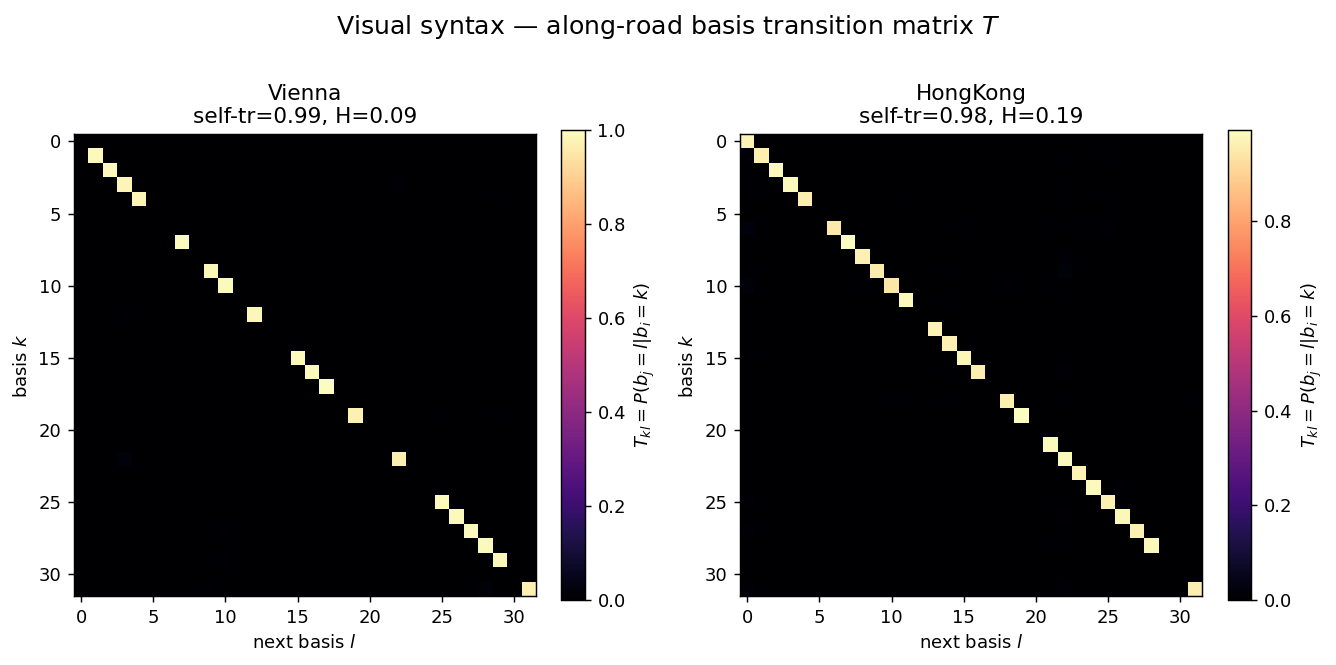
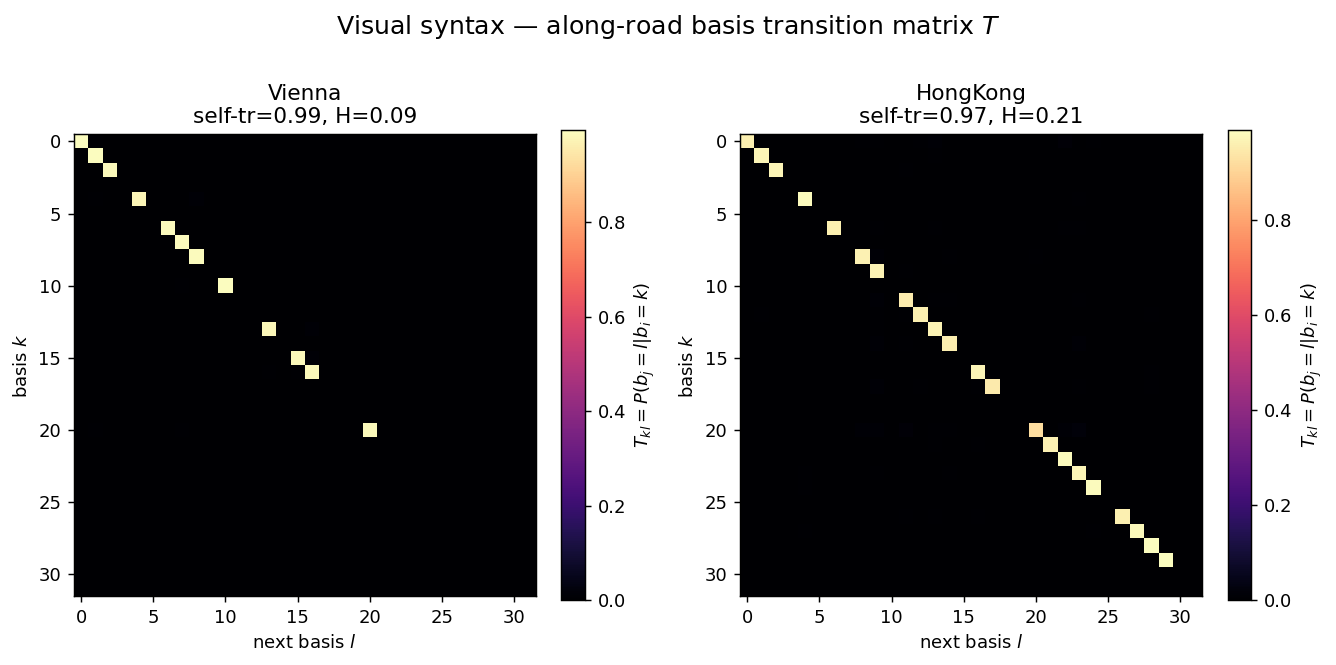
Unify 5.8/5.9 analyses on quality-filtered data (both cities)
Re-ran HongKong N=2000 with --exclude-bad (29/2000 dropped) and regenerated the
grammar analyses + basis roles on Vienna+HK clean data. All conclusions hold:
- H2 spatial organization z=-730/-1277 (road << random, road<euclidean)
- H3 unit coherence gap z=+35/+44
- H4 syntax: HK transition entropy 2.3x Vienna, vocab JSD 0.46
- roles: dominant 12 (V) / 22 (HK), more dead bases after removing the artifact
No imaging-artifact (glare) basis anywhere. REPORT 5.8/5.9 tables/figures updated.

diff --git a/REPORT.md b/REPORT.md
@@ -248,14 +248,12 @@ $$
 
 ![basis roles](outputs/figures/basis_roles.png)
 
-| 城市 | 主导基 | 组合基 | 死基 | 有效主导词汇(90%) | median active |
+| 城市（质量过滤后 N=2000）| 主导基 | 组合基 | 死基 | 有效主导词汇(90%) | median active |
 |---|--:|--:|--:|--:|--:|
-| Vienna | 18 | 1 | 13 | 12 | 18 |
-| 香港 | 26 | 0 | 6 | 16 | 23 |
+| Vienna | 12 | 0 | 20 | 9 | 11 |
+| 香港 | 22 | 0 | 10 | 16 | 20 |
 
-尽管 32 个基方向上近正交（上文），**实际被使用的有效词汇远小于 $K$**：维也纳仅 ~18 个基会主导某地、13 个近乎"死基"（几乎不激活，图中聚于原点）；**香港用到 26 个主导基、有效主导词汇 16**，明显更丰富。这给出一个新的城市差异证据——**香港调用更大的视觉词汇**，与其更高的转移熵（§5.9）一致：香港不仅"切换更频繁"，且"用的视觉原语种类更多"。同时也提示模型容量过剩，$K$ 可下调或对 dead basis 做剪枝。
-
-> 注：本表为**过滤前** N=2000 模型；质量过滤后维也纳主导基进一步降到 12（上方拼图），有效词汇更小——剔除成像伪影也减少了被"浪费"的容量。
+尽管 32 个基方向上近正交（上文），**实际被使用的有效词汇远小于 $K$**：维也纳仅 ~12 个基会主导某地、20 个近乎"死基"（几乎不激活，图中聚于原点）；**香港用到 22 个主导基、有效主导词汇 16**，明显更丰富。这给出一个城市差异证据——**香港调用更大的视觉词汇**，与其更高的转移熵（§5.9）一致：香港不仅"切换更频繁"，且"用的视觉原语种类更多"。同时也提示模型容量过剩，$K$ 可下调或对 dead basis 做剪枝（过滤后死基增多，说明部分容量原本用于编码成像伪影）。
 
 **基之间是否冗余？（定量，免图像）** 直接检查基矩阵 $X$ 的结构（`scripts/basis_similarity.py`）：
 
@@ -285,14 +283,14 @@ $$
 
 ### 5.9 城市视觉组合语法（H2/H3/H4）
 
-进一步把分割结果提升为对城市视觉结构的检验：视觉基沿路网是否非随机组织（H2）、单元是否为真实突变所界定（H3）、城市差异是否在于基的**组合语法**而非词汇（H4）。以下均在覆盖子图（真实观测）上、于 Vienna/HongKong $N=2000$ 计算。
+进一步把分割结果提升为对城市视觉结构的检验：视觉基沿路网是否非随机组织（H2）、单元是否为真实突变所界定（H3）、城市差异是否在于基的**组合语法**而非词汇（H4）。以下均在覆盖子图（真实观测）上、于 Vienna/HongKong $N=2000$（**质量过滤后**）计算。
 
 **(R2 / H2) 视觉基沿道路网络非随机组织。** 以图平滑度 $S(A,G)=\frac{1}{|E|}\sum_{(i,j)\in E}\lVert a_i-a_j\rVert_2$ 与节点-激活随机置换零模型比较：
 
 | 城市 | $S_{road}$ | 置换零模型 $S$ | $z$ | $S_{euclidean}$ | $S_{road}/S_{eucl}$ |
 |---|--:|--:|--:|--:|--:|
-| Vienna | 0.003 | 0.252 | **−981** | 0.004 | 0.71 |
-| 香港 | 0.006 | 0.243 | **−1325** | 0.007 | 0.94 |
+| Vienna | 0.002 | 0.214 | **−730** | 0.003 | 0.71 |
+| 香港 | 0.005 | 0.211 | **−1277** | 0.006 | 0.94 |
 
 真实 $S$ 远低于随机置换（$z\ll0$）→ 激活强烈沿路网平滑；且 $S_{road}<S_{euclidean}$ → **道路网络比单纯地理邻近更能解释视觉连续性**。
 
@@ -300,8 +298,8 @@ $$
 
 | 城市 | $C_{intra}$ | $C_{inter}$ | gap | gap $z$ |
 |---|--:|--:|--:|--:|
-| Vienna | 1.000 | 0.934 | 0.065 | **+33** |
-| 香港 | 0.999 | 0.884 | 0.115 | **+44** |
+| Vienna | 1.000 | 0.945 | 0.055 | **+35** |
+| 香港 | 0.999 | 0.889 | 0.110 | **+44** |
 
 **(R4 / H4) 城市差异在于句法而非词汇。** 以主导基 $b_i=\arg\max_k a_{i,k}$，沿路转移矩阵 $T_{kl}=P(b_j=l\mid b_i=k)$：
 
@@ -309,12 +307,12 @@ $$
 
 | 城市 | 自转移率 | 转移熵 $H(T)$ | 非对角质量 |
 |---|--:|--:|--:|
-| Vienna | 0.989 | 0.085 | 0.011 |
-| 香港 | 0.976 | **0.189** | **0.024** |
+| Vienna | 0.989 | 0.091 | 0.011 |
+| 香港 | 0.974 | **0.212** | **0.026** |
 
-两城用到全部 32 个基（**共享词汇**），但香港的转移熵与非对角质量约为维也纳的 **2.2 倍**，词汇使用分布的 Jensen–Shannon 散度为 0.29——即香港沿路**频繁切换视觉基（强异质、突变）**，维也纳则呈**连续街墙式的高自转移**。这把"香港单元更细碎"从描述性观察升级为**可量化的视觉句法差异**：*cities share a visual vocabulary but differ in its grammar.*
+两城共享同一组视觉基（**共享词汇**），但香港的转移熵与非对角质量约为维也纳的 **2.3 倍**，词汇使用分布的 Jensen–Shannon 散度为 0.46——即香港沿路**频繁切换视觉基（强异质、突变）**，维也纳则呈**连续街墙式的高自转移**。这把"香港单元更细碎"从描述性观察升级为**可量化的视觉句法差异**：*cities share a visual vocabulary but differ in its grammar.*
 
-> 诚实备注：自转移绝对值偏高（~0.98–0.99）部分源于聚合平滑（同一 pano 邻域的覆盖节点共享主导基），有效信号在**两城差异**（熵 2.2×、gap $z$、JSD）；更细粒度需更大 $N$ 或 per-pano 分析。复现：`scripts/{visual_syntax,spatial_organization,unit_coherence}.py`。
+> 诚实备注：自转移绝对值偏高（~0.98–0.99）部分源于聚合平滑（同一 pano 邻域的覆盖节点共享主导基），有效信号在**两城差异**（熵 2.3×、gap $z$、JSD 0.46）；更细粒度需更大 $N$ 或 per-pano 分析。复现：`scripts/{visual_syntax,spatial_organization,unit_coherence}.py`。
 
 ### 5.10 跨城视觉基对齐（H1/H4）
 
